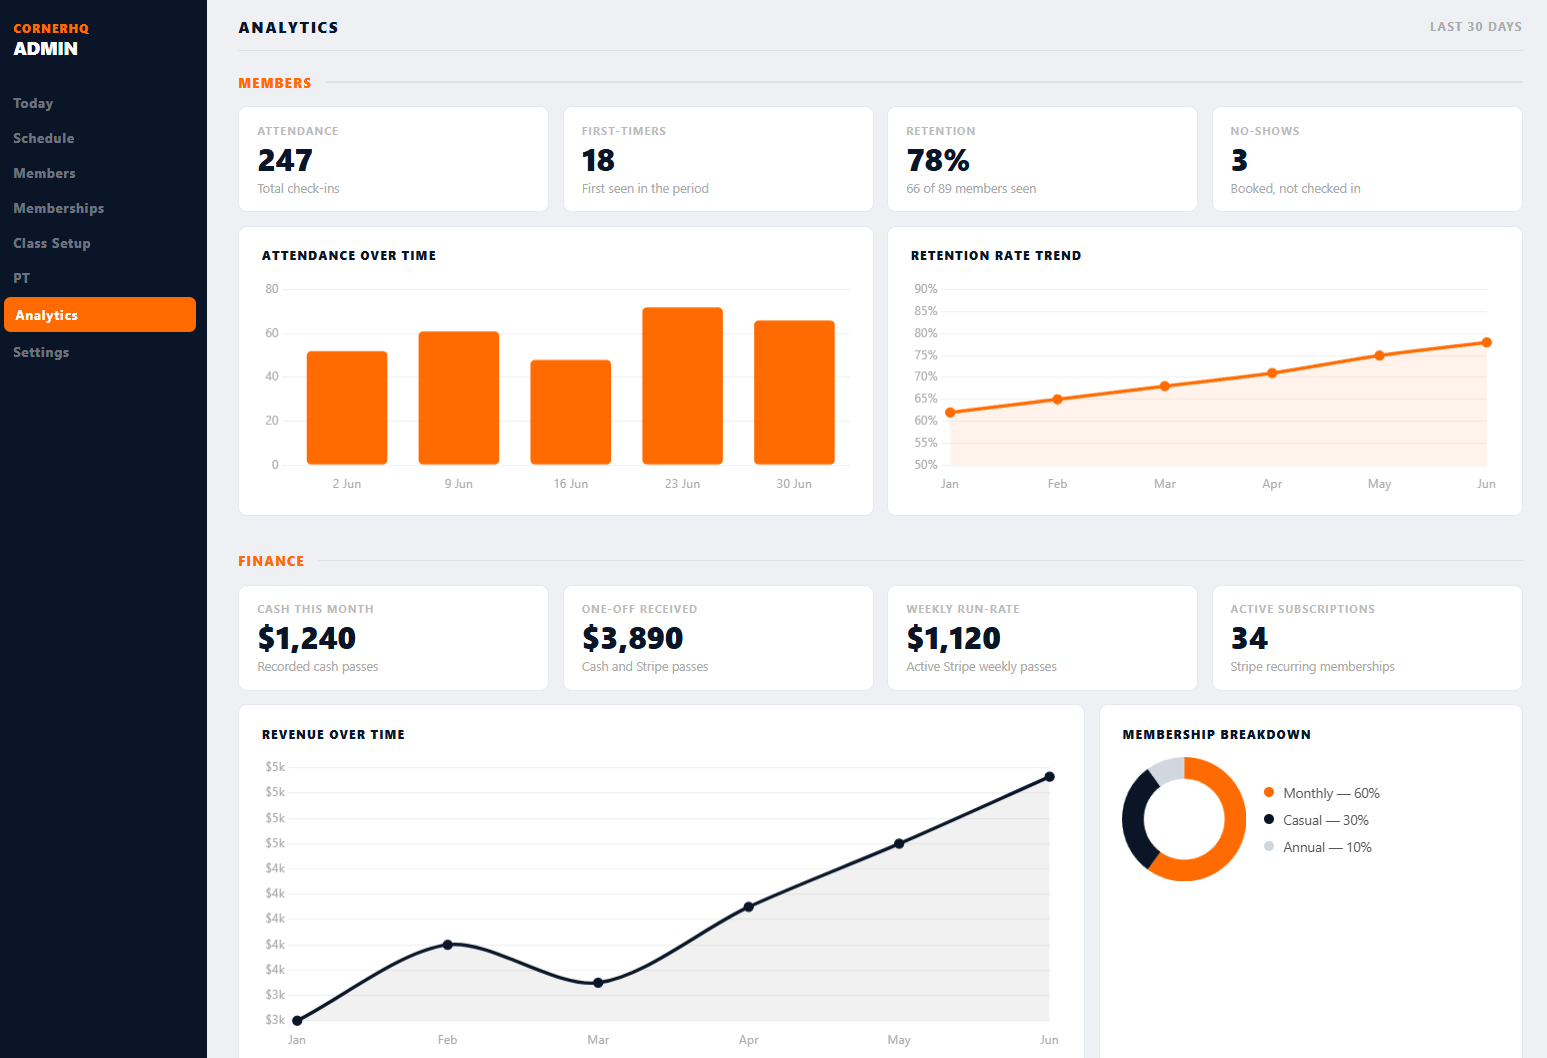
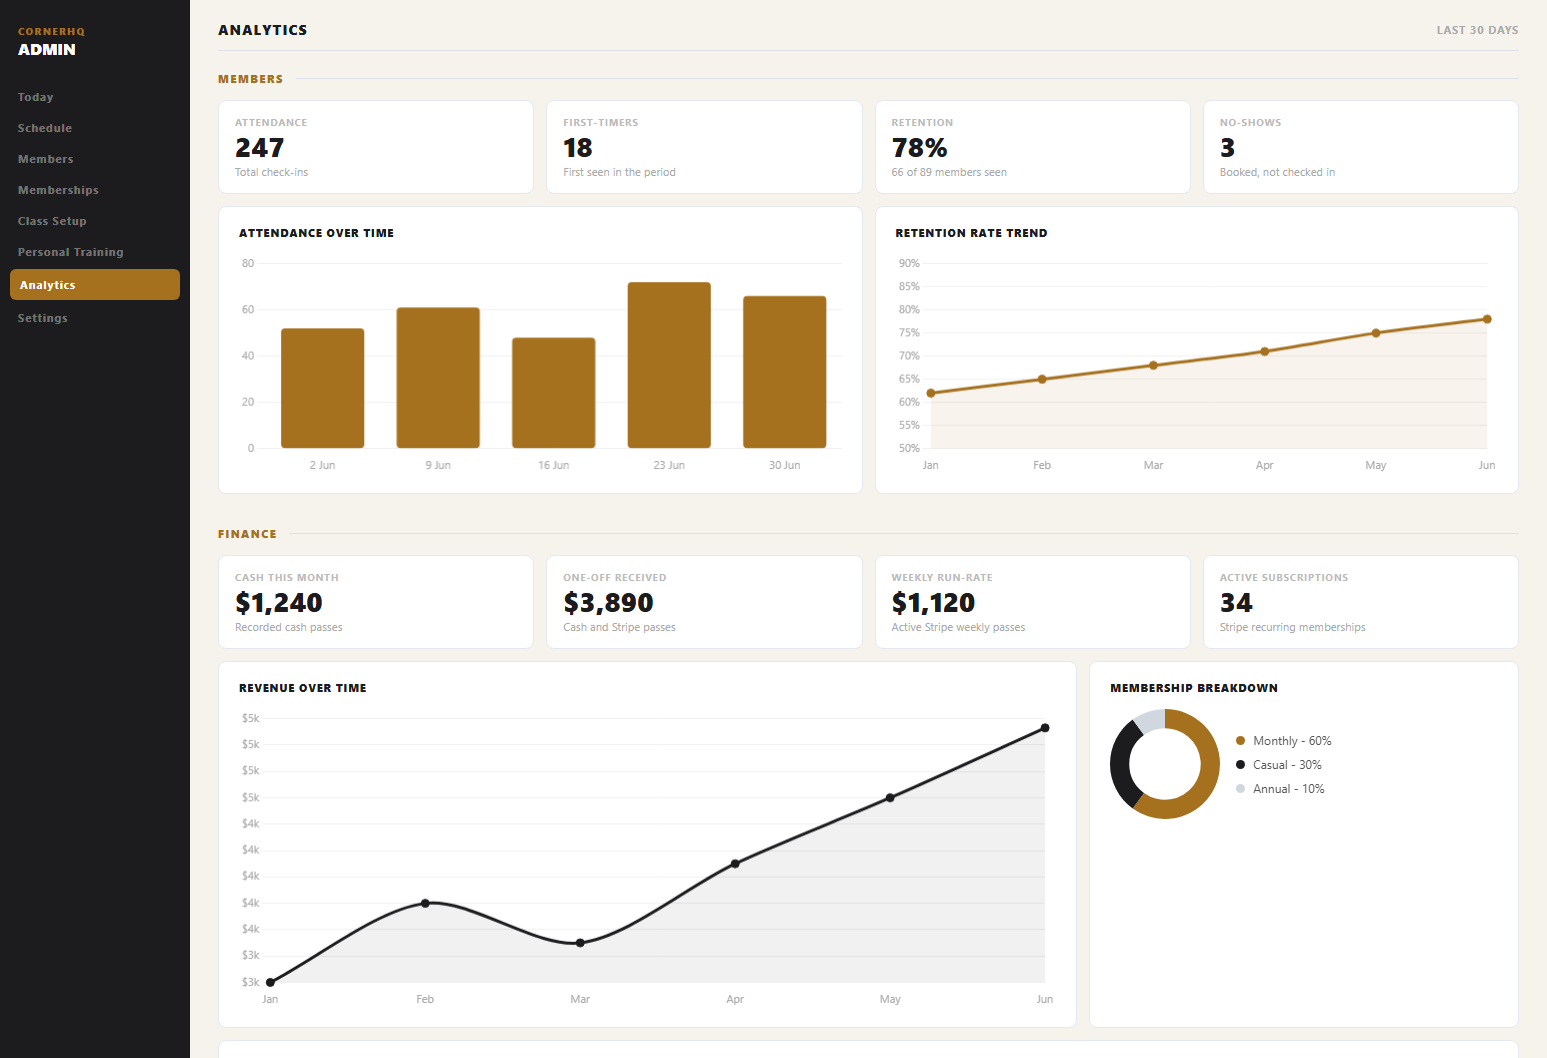
Name the promo piece Rodlek P.K. Saenchai, show the member app, recolour admin to cream and gold

diff --git a/preview/index.html b/preview/index.html
@@ -3,14 +3,14 @@
 <head>
   <meta charset="UTF-8">
   <meta name="viewport" content="width=device-width, initial-scale=1.0">
-  <title>CornerHQ — Dashboard Preview</title>
+  <title>CornerHQ - Dashboard Preview</title>
   <script src="https://cdn.jsdelivr.net/npm/chart.js"></script>
   <style>
     *, *::before, *::after { box-sizing: border-box; margin: 0; padding: 0; }
 
     body {
       font-family: -apple-system, BlinkMacSystemFont, 'Segoe UI', Roboto, sans-serif;
-      background: #eef0f4;
+      background: #F6F3ED;
       color: #333;
       display: flex;
       height: 100vh;
@@ -20,7 +20,7 @@
     /* ── Sidebar ── */
     .sidebar {
       width: 190px;
-      background: #0A1628;
+      background: #1C1C1E;
       flex-shrink: 0;
       display: flex;
       flex-direction: column;
@@ -33,7 +33,7 @@
 
     .sidebar-logo { padding: 0 18px 22px; }
     .sidebar-logo .brand {
-      color: #FF6B00;
+      color: #A6711F;
       font-size: 0.65rem;
       font-weight: 800;
       letter-spacing: 0.1em;
@@ -56,7 +56,7 @@
       user-select: none;
     }
     .nav-item.active {
-      background: #FF6B00;
+      background: #A6711F;
       color: #fff;
       margin: 2px 10px;
       border-radius: 6px;
@@ -84,7 +84,7 @@
     .page-header h1 {
       font-size: 0.85rem;
       font-weight: 800;
-      color: #0A1628;
+      color: #1C1C1E;
       letter-spacing: 0.1em;
       text-transform: uppercase;
     }
@@ -107,7 +107,7 @@
     .section-header h2 {
       font-size: 0.7rem;
       font-weight: 800;
-      color: #FF6B00;
+      color: #A6711F;
       letter-spacing: 0.12em;
       text-transform: uppercase;
       white-space: nowrap;
@@ -140,7 +140,7 @@
     .stat-value {
       font-size: 1.7rem;
       font-weight: 800;
-      color: #0A1628;
+      color: #1C1C1E;
       line-height: 1;
       margin-bottom: 4px;
     }
@@ -164,7 +164,7 @@
     .chart-title {
       font-size: 0.68rem;
       font-weight: 800;
-      color: #0A1628;
+      color: #1C1C1E;
       letter-spacing: 0.08em;
       text-transform: uppercase;
       margin-bottom: 14px;
@@ -204,9 +204,9 @@
       border-bottom: 1px solid #f3f4f6;
     }
     .payment-row:last-child { border-bottom: none; }
-    .payment-name { font-size: 0.8rem; font-weight: 700; color: #0A1628; }
+    .payment-name { font-size: 0.8rem; font-weight: 700; color: #1C1C1E; }
     .payment-desc { font-size: 0.72rem; color: #aaa; }
-    .payment-amount { font-size: 0.8rem; font-weight: 700; color: #0A1628; text-align: right; }
+    .payment-amount { font-size: 0.8rem; font-weight: 700; color: #1C1C1E; text-align: right; }
     .payment-date { font-size: 0.68rem; color: #aaa; text-align: right; }
 
     /* ── Top classes bars ── */
@@ -227,8 +227,8 @@
     .bar-row:last-child { margin-bottom: 0; }
     .bar-label { font-size: 0.75rem; font-weight: 600; color: #444; width: 160px; flex-shrink: 0; }
     .bar-track { flex: 1; background: #f0f0f0; border-radius: 3px; height: 9px; }
-    .bar-fill { height: 100%; background: #FF6B00; border-radius: 3px; }
-    .bar-count { font-size: 0.75rem; font-weight: 700; color: #0A1628; width: 28px; text-align: right; flex-shrink: 0; }
+    .bar-fill { height: 100%; background: #A6711F; border-radius: 3px; }
+    .bar-count { font-size: 0.75rem; font-weight: 700; color: #1C1C1E; width: 28px; text-align: right; flex-shrink: 0; }
 
     /* ── Responsive ── */
     @media (max-width: 900px) {
@@ -348,13 +348,13 @@
             <canvas id="chart-membership" width="110" height="110"></canvas>
             <div class="doughnut-legend">
               <div class="legend-item">
-                <div class="legend-dot" style="background:#FF6B00"></div>Monthly — 60%
+                <div class="legend-dot" style="background:#A6711F"></div>Monthly - 60%
               </div>
               <div class="legend-item">
-                <div class="legend-dot" style="background:#0A1628"></div>Casual — 30%
+                <div class="legend-dot" style="background:#1C1C1E"></div>Casual - 30%
               </div>
               <div class="legend-item">
-                <div class="legend-dot" style="background:#d0d7df"></div>Annual — 10%
+                <div class="legend-dot" style="background:#d0d7df"></div>Annual - 10%
               </div>
             </div>
           </div>
@@ -444,7 +444,7 @@
     Chart.defaults.font.size = 11;
     Chart.defaults.color = '#aaa';
 
-    // Attendance Over Time — bar chart
+    // Attendance Over Time - bar chart
     new Chart(document.getElementById('chart-attendance'), {
       type: 'bar',
       data: {
@@ -452,7 +452,7 @@
         datasets: [{
           label: 'Check-ins',
           data: [52, 61, 48, 72, 66],
-          backgroundColor: '#FF6B00',
+          backgroundColor: '#A6711F',
           borderRadius: 4,
           borderSkipped: false,
         }]
@@ -470,7 +470,7 @@
       }
     });
 
-    // Retention Rate Trend — line chart
+    // Retention Rate Trend - line chart
     new Chart(document.getElementById('chart-retention'), {
       type: 'line',
       data: {
@@ -478,9 +478,9 @@
         datasets: [{
           label: 'Retention %',
           data: [62, 65, 68, 71, 75, 78],
-          borderColor: '#FF6B00',
-          backgroundColor: 'rgba(255,107,0,0.08)',
-          pointBackgroundColor: '#FF6B00',
+          borderColor: '#A6711F',
+          backgroundColor: 'rgba(166, 113, 31,0.08)',
+          pointBackgroundColor: '#A6711F',
           pointRadius: 4,
           tension: 0.3,
           fill: true,
@@ -503,7 +503,7 @@
       }
     });
 
-    // Revenue Over Time — line chart
+    // Revenue Over Time - line chart
     new Chart(document.getElementById('chart-revenue'), {
       type: 'line',
       data: {
@@ -511,9 +511,9 @@
         datasets: [{
           label: 'Revenue',
           data: [3200, 3800, 3500, 4100, 4600, 5130],
-          borderColor: '#0A1628',
+          borderColor: '#1C1C1E',
           backgroundColor: 'rgba(10,22,40,0.06)',
-          pointBackgroundColor: '#0A1628',
+          pointBackgroundColor: '#1C1C1E',
           pointRadius: 4,
           tension: 0.3,
           fill: true,
@@ -535,14 +535,14 @@
       }
     });
 
-    // Membership Breakdown — doughnut
+    // Membership Breakdown - doughnut
     new Chart(document.getElementById('chart-membership'), {
       type: 'doughnut',
       data: {
         labels: ['Monthly', 'Casual', 'Annual'],
         datasets: [{
           data: [60, 30, 10],
-          backgroundColor: ['#FF6B00', '#0A1628', '#d0d7df'],
+          backgroundColor: ['#A6711F', '#1C1C1E', '#d0d7df'],
           borderWidth: 0,
           hoverOffset: 4,
         }]

diff --git a/index.html b/index.html
@@ -68,8 +68,8 @@
         <article class="piece reveal">
           <div class="piece-text">
             <p class="piece-kind">Fighter promo</p>
-            <h3>Sing Muay Thai</h3>
-            <p>A 73-second promo cut for Instagram. Shot dark, cut to the fighter's own words, built to stop the scroll and sell the gym.</p>
+            <h3>Rodlek P.K. Saenchai</h3>
+            <p>A 73-second promo for Rodlek P.K. Saenchai of Sing Muay Thai. Cut for Instagram, shot dark, built around the fighter's own words.</p>
             <div class="facts">
               <div><b>73s</b>runtime</div>
               <div><b>9:16</b>cut for Reels</div>
@@ -113,10 +113,15 @@
             </div>
             <a class="link" href="#app">See app pricing</a>
           </div>
-          <div class="browser">
-            <div class="browser-bar">CornerHQ admin</div>
-            <div class="browser-body">
-              <img src="images/dashboard-preview.png" alt="CornerHQ dashboard showing members, attendance and revenue" loading="lazy" width="1547" height="1058">
+          <div class="app-shots">
+            <div class="phone-shot">
+              <img src="images/member-app.png" alt="Sing Muay Thai member app home screen, powered by CornerHQ" loading="lazy" width="660" height="800">
+            </div>
+            <div class="browser">
+              <div class="browser-bar">CornerHQ admin</div>
+              <div class="browser-body">
+                <img src="images/dashboard-preview.png" alt="CornerHQ admin dashboard showing members, attendance and revenue" loading="lazy" width="1547" height="1058">
+              </div>
             </div>
           </div>
         </article>

diff --git a/css/site.css b/css/site.css
@@ -151,6 +151,9 @@ a.browser { display: block; color: inherit; }
 .browser-body { position: relative; height: 520px; background: #000; }
 .browser-body img { width: 100%; height: 100%; object-fit: cover; object-position: top; }
 .piece-wide .browser-body { height: auto; }
+.app-shots { display: grid; grid-template-columns: 300px 1fr; gap: 32px; align-items: start; }
+.phone-shot { border-radius: var(--r-phone); overflow: hidden; background: #F6F3ED; border: 1px solid #2C2C31; box-shadow: 0 30px 80px rgba(28, 28, 30, .28), 0 0 0 6px #111114; }
+.phone-shot img { width: 100%; height: auto; }
 .piece-wide .browser-body img { max-height: 640px; }
 
 /* Who it's for: the one mid-page dark media block */
@@ -256,6 +259,8 @@ footer a:hover { color: var(--bone); }
   .services .section-title { position: static; }
   .svc { grid-template-columns: 1fr 96px; }
   .svc img { width: 96px; }
+  .app-shots { grid-template-columns: 1fr; }
+  .phone-shot { max-width: 320px; margin: 0 auto; }
   .app-box { grid-template-columns: 1fr; }
   .tiers { grid-template-columns: 1fr; gap: 14px; }
   .app-box .tiers-note { grid-column: 1; }

diff --git a/docs/superpowers/specs/2026-09-04-cornerhq-services-site-design.md b/docs/superpowers/specs/2026-09-04-cornerhq-services-site-design.md
@@ -33,11 +33,11 @@ doors, no overlap, and the two sites must not look alike.
 
 Three real pieces, all owned or made by CornerHQ:
 
-1. **Fighter promo for Sing Muay Thai.** 73 seconds, 9:16, 1080p. Source file:
+1. **Fighter promo for Rodlek P.K. Saenchai (Sing Muay Thai).** 73 seconds, 9:16, 1080p. Source file:
    `C:\Users\Thien\Downloads\Muay Thai Fighter Promo — IG Reel 1080p (1).mp4`.
 2. **singmuaythai.com.au.** Live gym website. Shown as a screenshot taken past
    its splash gate, inside a browser frame that links out.
-3. **The CornerHQ app.** Existing screenshot `images/dashboard-preview.png`.
+3. **The CornerHQ app.** Real member app screenshot `images/member-app.png` (Sing Muay Thai, cream and gold) plus the admin mock `images/dashboard-preview.png`, recoloured to the same palette and re-shot from `preview/index.html`.
 
 No other proof ships. No placeholder projects, no anonymised case studies, no
 invented numbers. Every figure on the page must be provable (runtime, aspect
